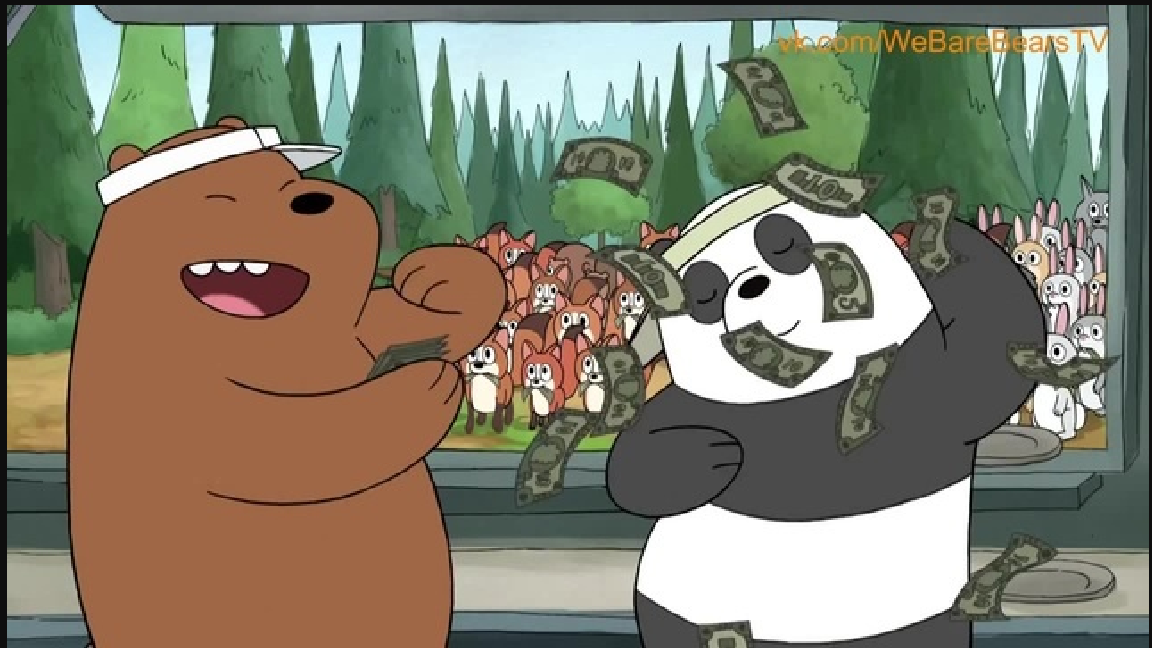
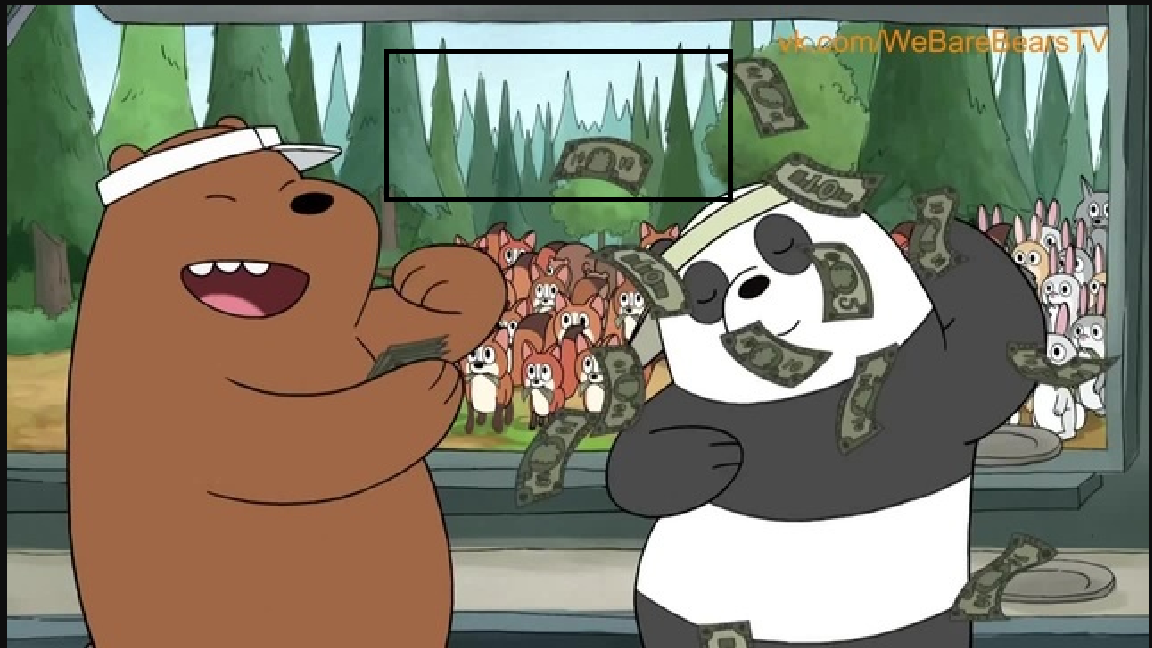
Добавлена полнофункциональная поддержка печати текста в определенных рамках. То есть:  - размер шрифта изменяется автоматически в зависимости от границ;  - текст можно выравнивать по горизонтали (слева, справа, по центру);  Слегка изменена шаблонная картинка для более удобных тестов печати текста

Changed region(s): [[0.3125, 0.0617, 0.6562, 0.3086]]

diff --git a/src/GridPainter.php b/src/GridPainter.php
@@ -3,20 +3,24 @@
 
 use Imagine\Gd\Font;
 use Imagine\Gd\Imagine;
+use Imagine\Image\Box;
 use Imagine\Image\Color;
 use Imagine\Image\ImageInterface;
 use Imagine\Image\Point;
 
 class GridPainter {
 
-    /**
-     * @var Point
-     */
-    private $pos1;
-    /**
-     * @var Point
-     */
-    private $pos2;
+    private const DEFAULT_TEXT_SIZE = 20; //Размер шрифта в пунктах
+
+    private const TEXT_MARGIN = 10; //Расстояние текста от границ рамок и расстояние между строками в пикселях
+
+    //режимы выравнивания текста
+    private const TEXT_ALIGN_LEFT = 0;
+    private const TEXT_ALIGN_CENTER = 1;
+    private const TEXT_ALIGN_RIGHT = 2;
+
+    private const FONT = "../resources/ConceptoTitulNrWv.ttf";
+
     /**
      * @var string
      */
@@ -35,14 +39,27 @@ class GridPainter {
     private $savePath;
     /** @var ImageInterface  */
     private $image;
+    /**
+     * @var Box
+     */
+    private $titleBox;
+    /**
+     * @var Point
+     */
+    private $fieldPos;
+    /**
+     * @var Box
+     */
+    private $fieldBox;
 
-    public function __construct(string $filename,string $savePath, string $title,Point $titlePos, Point $fieldPos1, Point $fieldPos2) {
-        $this->pos1 = new Point(min($fieldPos1->getX(),$fieldPos2->getX()),min($fieldPos1->getY(),$fieldPos2->getY()));
-        $this->pos2 = new Point(max($fieldPos1->getX(),$fieldPos2->getX()),max($fieldPos1->getY(),$fieldPos2->getY()));
+    public function __construct(string $filename, string $savePath, string $title, Point $titlePos,Box $titleBox, Point $fieldPos, Box $fieldBox) {
         $this->title = $title;
-        $this->titlePos = $titlePos;
         $this->filename = $filename;
         $this->savePath = $savePath;
+        $this->titlePos = $titlePos;
+        $this->titleBox = $titleBox;
+        $this->fieldPos = $fieldPos;
+        $this->fieldBox = $fieldBox;
         $imagine = new Imagine();
         $this->image = $imagine->open($filename);
     }
@@ -61,15 +78,73 @@ class GridPainter {
     }
 
     private function drawTitle(){
-        $this->image->draw()->text(
-            $this->title,
-            new Font(realpath("../resources/ConceptoTitulNrWv.ttf"),40,new Color('000')),
-            $this->titlePos
-        );
+        $this->putTextInBox($this->titleBox,$this->titlePos,$this->title,self::TEXT_ALIGN_CENTER);
     }
 
     private function drawClass(CollegeClass $class,int $totalClasses){
         //TODO рисовать сеточку для каждого предмета.
+    }
+
+    private function putTextInBox(Box $box,Point $leftTopCorner,string $text,int $align){
+        //Разбиваем текст на строки
+        $lines = explode("\n",$text);
+        $scale = self::DEFAULT_TEXT_SIZE;
+
+        $longestValue = strlen($lines[0]);
+        //Подгоняем размер шрифта по ширине текста
+        foreach ($lines as $k=>$line){
+            $params = imageftbbox($scale,0,realpath(self::FONT),$line);
+            if($box->getWidth()-self::TEXT_MARGIN*2-$params[2]-$params[0]<1){
+                while ($box->getWidth()-self::TEXT_MARGIN*2-$params[2]-$params[0]<1){
+                    $params = imageftbbox(--$scale,0,realpath(self::FONT),$line);
+                }
+            }
+            if(strlen($line)>$longestValue){
+                $longestValue = strlen($line);
+            }
+        }
+
+        //Подгоняем размер шрифта по высоте
+        $params = imageftbbox($scale,0,realpath(self::FONT),$lines[0]);
+        if($box->getHeight()-self::TEXT_MARGIN*(count($lines)+1)-abs($params[1]-$params[7])*count($lines)<1){
+            while ($box->getHeight()-self::TEXT_MARGIN*(count($lines)+1)-abs($params[1]-$params[7])*count($lines)<1){
+                $params = imageftbbox(--$scale,0,realpath(self::FONT),$lines[0]);
+            }
+        }
+
+        //печатаем текст
+        foreach ($lines as $k=>$line){
+            $params = imageftbbox($scale,0,realpath(self::FONT),$line);
+            $strWidth = abs($params[2]-$params[0]);
+            $strHeight = abs($params[1]-$params[7]);
+
+            if(!isset($y)){
+                $y = $leftTopCorner->getY()+self::TEXT_MARGIN;
+            }else{
+                $y += $strHeight+self::TEXT_MARGIN;
+            }
+
+            switch ($align){
+                case self::TEXT_ALIGN_CENTER:
+                    $x = ($leftTopCorner->getX()+$box->getWidth()/2)-$strWidth/2;
+                    break;
+                case self::TEXT_ALIGN_RIGHT:
+                    $x = ($leftTopCorner->getX()+$box->getWidth())-$strWidth-self::TEXT_MARGIN;
+                    break;
+                case self::TEXT_ALIGN_LEFT:
+                default:
+                    $x = $leftTopCorner->getX()+self::TEXT_MARGIN;
+                    break;
+            }
+
+            $startPoint = new Point((int)$x,(int)$y);
+
+            $this->image->draw()->text(
+                $line,
+                new Font(realpath(self::FONT),$scale,new Color("000")),
+                $startPoint
+            );
+        }
     }
 
 }

diff --git a/src/KonyaevaBot.php b/src/KonyaevaBot.php
@@ -1,5 +1,6 @@
 <?php
 
+use Imagine\Image\Box;
 use Imagine\Image\Point;
 
 require_once __DIR__."/autoload.php";
@@ -191,5 +192,5 @@ foreach ($classes as $class){
 }
 
 //Генерируем картинку для отправки в беседу
-$gridPainter = new GridPainter("../resources/поиск.png","../out/schedule.png","test",new Point(0,0),new Point(0,0),new Point(0,0));
+$gridPainter = new GridPainter("../resources/поиск.png","../out/schedule.png","test длинного заголовка\nПривет медвед!",new Point(384,49),new Box(732-384,200-49),new Point(0,0),new Box(100,100));
 $gridPainter->drawSchedule($classes);
